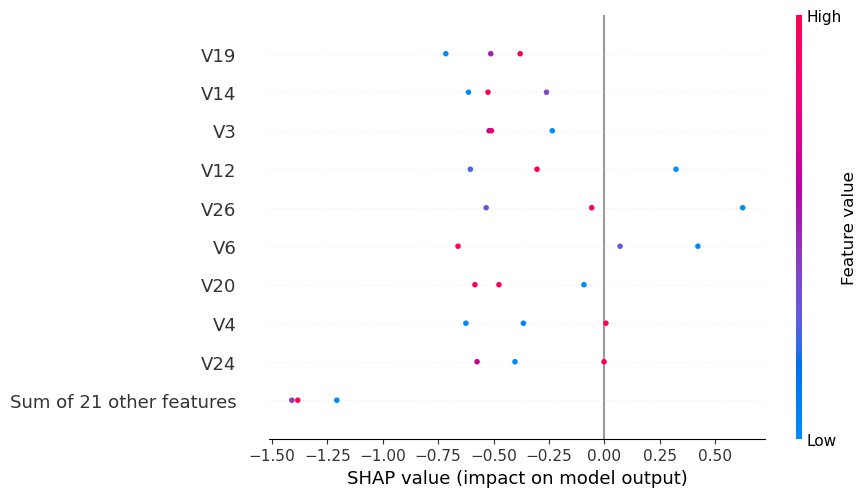
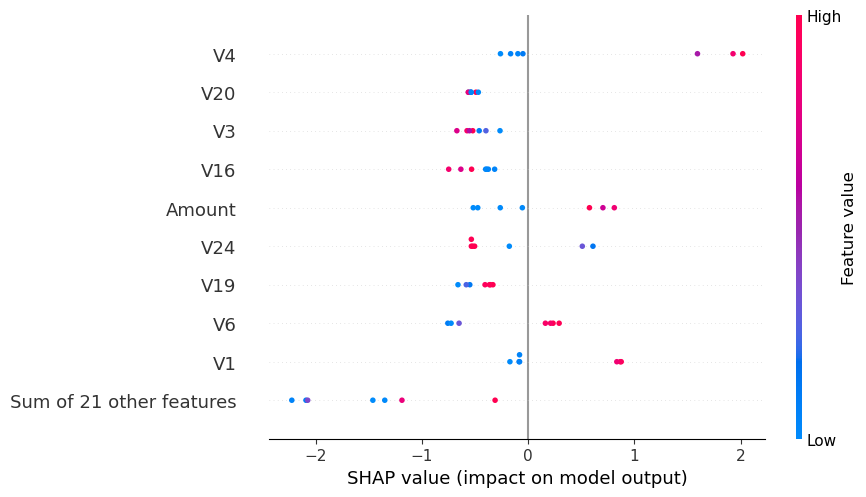
Updated predict and visualize api's for better prediction and visualization

diff --git a/backend/app.py b/backend/app.py
@@ -8,35 +8,78 @@ import os
 import uuid
 import xgboost as xgb
 import matplotlib.pyplot as plt
+from sklearn.preprocessing import StandardScaler
+import joblib
+
 
 app = Flask(__name__)
 CORS(app)
 
-# Load model
-with open(r'D:\fraud-detection\backend\model\xgboost_model.pkl', 'rb') as f:
-    model = pickle.load(f)
 
-# SHAP explainer
-explainer = shap.Explainer(model)
+UPLOAD_PATH = r'D:\fraud-detection\backend\uploaded_data.csv'
+MODEL_PATH = r'D:\fraud-detection\backend\model\xgboost_model.pkl'
+SCALER_PATH = r'D:\fraud-detection\backend\model\scaler.pkl'
 
-UPLOAD_PATH = 'uploads/last_uploaded.csv'
+# # Load model and scaler once
+# models_path = r'D:\fraud-detection\backend\model'
+# with open(os.path.join(models_path, 'xgboost_model.pkl'), 'rb') as f:
+#     model = pickle.load(f)
+
+# with open(os.path.join(models_path, 'scaler.pkl'), 'rb') as f:
+#     scaler = pickle.load(f)
 
 @app.route('/predict-csv', methods=['POST'])
 def predict_csv():
-    if 'file' not in request.files:
-        return jsonify({'error': 'No file uploaded'}), 400
-    file = request.files['file']
-    df = pd.read_csv(file)
+    try:
+        # Load files
+        model = joblib.load(r'D:\fraud-detection\backend\model\xgboost_model.pkl')
+        scaler = joblib.load(r'D:\fraud-detection\backend\model\scaler.pkl')
+        feature_columns = joblib.load(r'D:\fraud-detection\backend\model\feature_columns.pkl')
 
-    # Save uploaded file for visualization
-    os.makedirs('uploads', exist_ok=True)
-    df.to_csv(UPLOAD_PATH, index=False)
+        # Get uploaded CSV
+        file = request.files['file']
+        df = pd.read_csv(file)
+        
+        # 🆕 SAVE THE UPLOADED CSV FOR VISUALIZATION
+        df.to_csv(UPLOAD_PATH, index=False)
 
-    if 'Class' in df.columns:
-        df = df.drop(columns=['Class'])
+        # Drop 'Class' if it exists (only for prediction)
+        if 'Class' in df.columns:
+            df = df.drop('Class', axis=1)
 
-    predictions = model.predict(df)
-    return jsonify({'predictions': predictions.tolist()})
+        # Ensure same feature order
+        df = df[feature_columns]
+
+        # Scale input
+        scaled_data = scaler.transform(df)
+
+        # Get fraud probabilities
+        fraud_probabilities = model.predict_proba(scaled_data)[:, 1]
+        
+        # Use optimal threshold
+        optimal_threshold = 0.00001  # Your working threshold
+        predictions = (fraud_probabilities > optimal_threshold).astype(int)
+
+        # After making predictions in /predict-csv route:
+        df['Class'] = predictions  # Add predictions as new column
+
+        df.to_csv(UPLOAD_PATH, index=False)  # Save CSV for visualization
+
+        
+        num_fraud = int((predictions == 1).sum())
+        num_non_fraud = int((predictions == 0).sum())
+
+        return jsonify({
+            'predictions': predictions.tolist(),
+            'probabilities': fraud_probabilities.tolist(),
+            'threshold_used': optimal_threshold,
+            'num_fraud': num_fraud,
+            'num_non_fraud': num_non_fraud
+        })
+
+    except Exception as e:
+        return jsonify({'error': str(e)}), 500
+
 
 
 @app.route('/get-csv-data', methods=['GET'])
